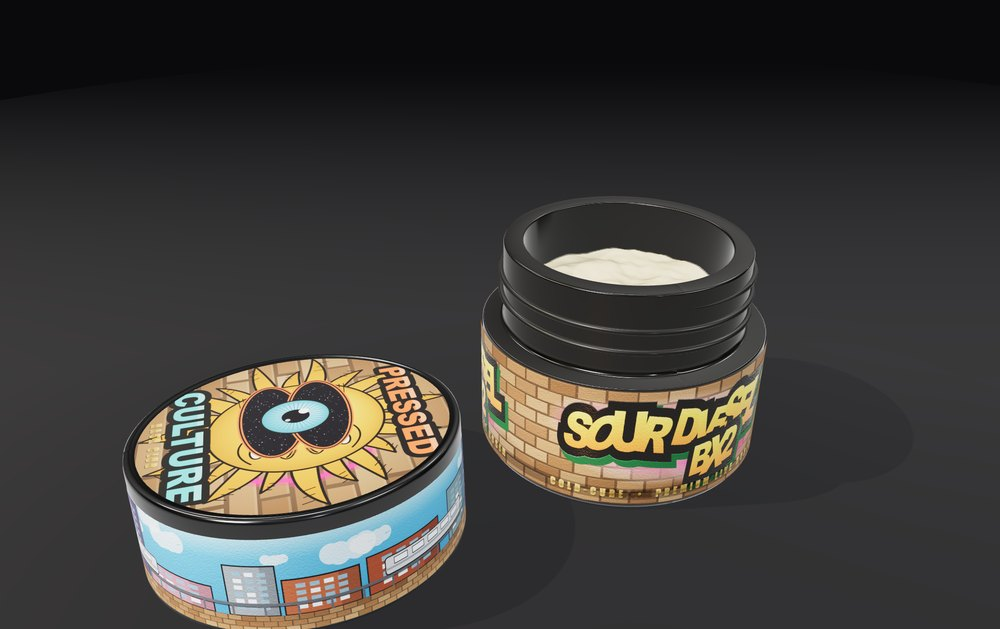
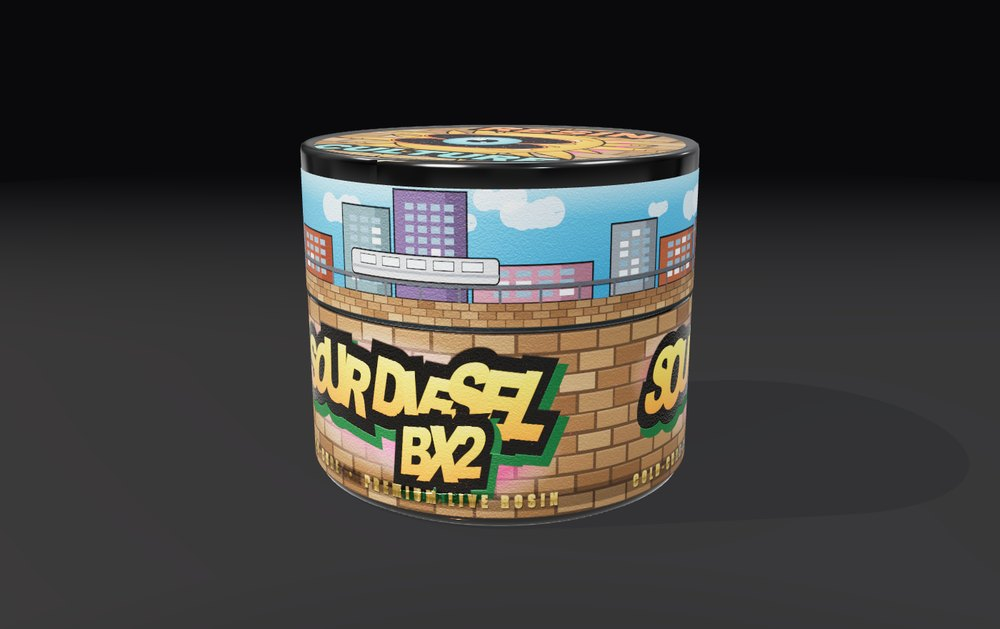
Lid wordmark: RESIN, not PRESSED
Per Remmy. Bumped the size 0.125 -> 0.170 S: RESIN is 5 characters against
CULTURE's 7, so at a matched size it read noticeably weaker than the teal
below it. Work-row thumbnails re-rendered so they don't still show PRESSED.

diff --git a/pressed-culture/src/labelTextures.js b/pressed-culture/src/labelTextures.js
@@ -721,7 +721,9 @@ export function buildTopLabel(S = 2048) {
     a.fillText(text, cx, y); a.restore(); a.globalAlpha = 1;
     a.restore();
   };
-  bubble('PRESSED', S * 0.145, PAL.sunOrange, S * 0.125);
+  // RESIN is 5 characters against CULTURE's 7, so it needs a larger size to carry
+  // the same optical width — matched at the same size it reads noticeably weaker.
+  bubble('RESIN', S * 0.145, PAL.sunOrange, S * 0.170);
   bubble('CULTURE', S * 0.855, PAL.teal, S * 0.135);
   a.save(); a.textAlign = 'center';
   foilCaps(a, 'HASH CLUB', cx, S * 0.945, S * 0.042, S * 0.012);
